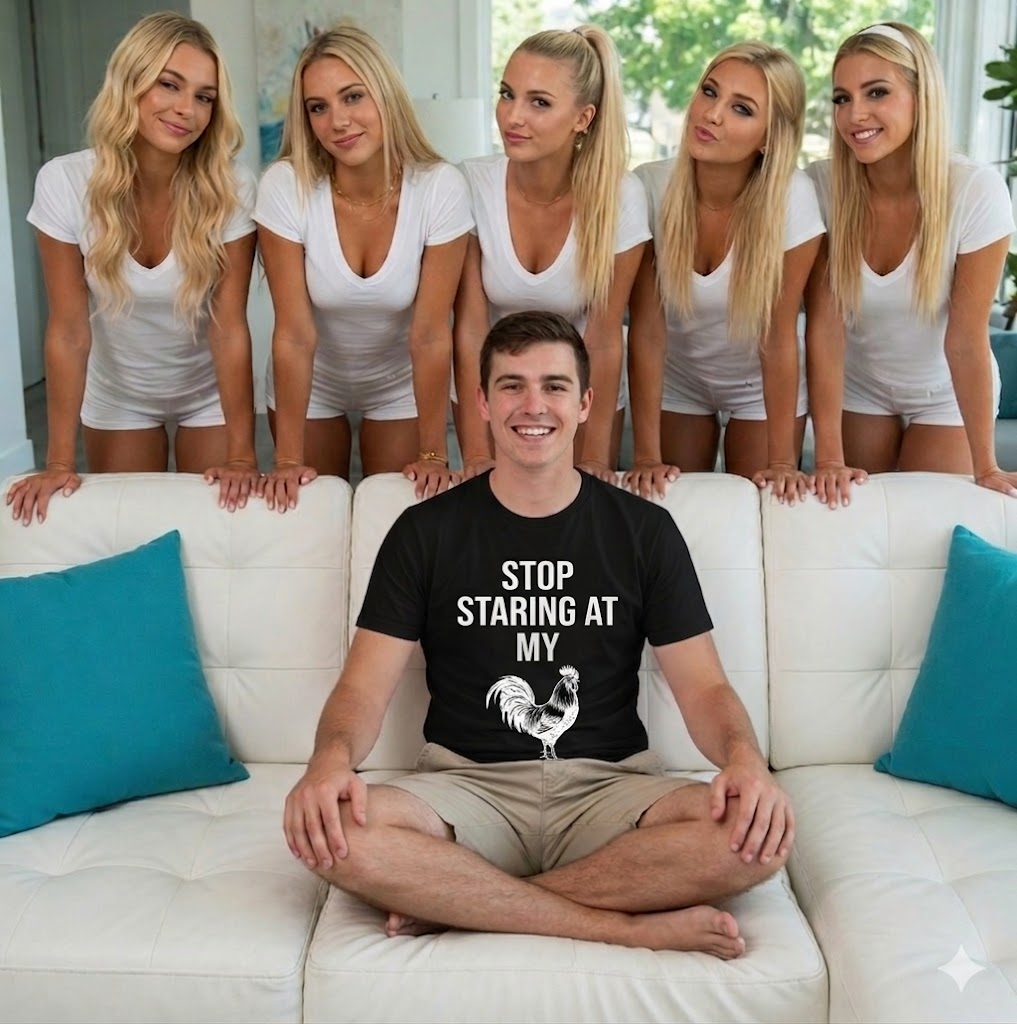
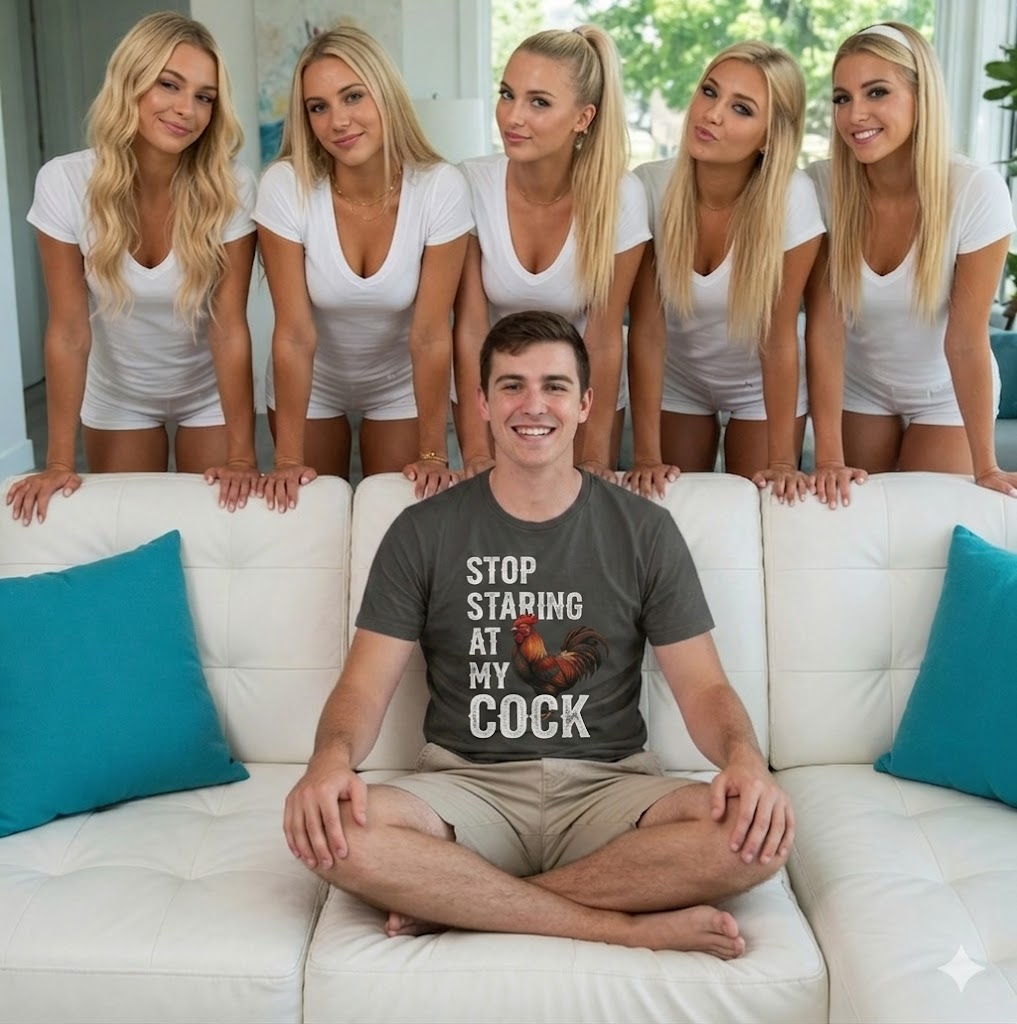
Meta Pixel events + joke-ad.png update

Changed region(s): [[0.3353, 0.4375, 0.7011, 0.75]]

diff --git a/app/layout.tsx b/app/layout.tsx
@@ -34,13 +34,13 @@ export const metadata: Metadata = {
     default: "UNHINGED THREADS™ | Respect The Glitch",
     template: "%s | UNHINGED THREADS",
   },
-  description: "We say what you’re thinking but shouldn’t. Chaotic, unfiltered, degenerate streetwear for people who are one bad decision away from greatness.",
+  description: "We say what you're thinking but shouldn't. Chaotic, unfiltered, degenerate streetwear for people who are one bad decision away from greatness.",
   icons: {
     icon: "/emoticon.png",
   },
   openGraph: {
     title: "UNHINGED THREADS™ | Respect The Glitch",
-    description: "We say what you’re thinking but shouldn’t. Chaotic, unfiltered, degenerate streetwear for people who are one bad decision away from greatness.",
+    description: "We say what you're thinking but shouldn't. Chaotic, unfiltered, degenerate streetwear for people who are one bad decision away from greatness.",
     images: [
       {
         url: "/og-image.png",
@@ -49,30 +49,37 @@ export const metadata: Metadata = {
         alt: "UNHINGED THREADS - Respect The Glitch",
       },
     ],
-    locale: "en_US",
-    type: "website",
-  },
-  twitter: {
-    card: "summary_large_image",
-    title: "UNHINGED THREADS™ | Respect The Glitch",
-    description: "We say what you’re thinking but shouldn’t. Chaotic, unfiltered, degenerate streetwear.",
-    images: ["/og-image.png"],
-  },
-  alternates: {
-    canonical: "https://threadglitch.com",
   },
 };
 
 export default function RootLayout({
   children,
-}: Readonly<{
+}: {
   children: React.ReactNode;
-}>) {
+}) {
   return (
     <html
       lang="en"
       className={`${geistMono.variable} ${bebas.variable} ${anton.variable} ${oswald.variable} h-full antialiased`}
     >
+      <head>
+        {/* Meta Pixel Base Code */}
+        <Script id="meta-pixel" strategy="afterInteractive">
+          {`
+            !function(f,b,e,v,n,t,s)
+            {if(f.fbq)return;n=f.fbq=function(){n.callMethod?
+            n.callMethod.apply(n,arguments):n.queue.push(arguments)};
+            if(!f._fbq)f._fbq=n;n.push=n;n.loaded=!0;n.version='2.0';
+            n.queue=[];t=b.createElement(e);t.async=!0;
+            t.src=v;s=b.getElementsByTagName(e)[0];
+            s.parentNode.insertBefore(t,s)}(window, document,'script',
+            'https://connect.facebook.net/en_US/fbevents.js');
+            fbq('init', '1025626486564773'); 
+            fbq('track', 'PageView');
+          `}
+        </Script>
+      </head>
+
       <body className="min-h-full flex flex-col bg-black text-white">
         {children}
         <Footer />
@@ -92,7 +99,7 @@ export default function RootLayout({
             const isLocalhost = hostname === 'localhost' || hostname === '127.0.0.1';
             
             // Your home IP range
-            const isHomeIP = /^74\\.244\\.21\\./.test('74.244.21.19');
+            const isHomeIP = /^74\.244\.21\./.test('74.244.21.19');
 
             if (isLocalhost || isHomeIP) {
               gtag('config', 'G-HZJG2GFXW6', { 

diff --git a/app/shop/[slug]/page.tsx b/app/shop/[slug]/page.tsx
@@ -3,6 +3,7 @@ import { getProduct } from '@/lib/products';
 import ProductClient from './components/ProductClient';
 import ProductImageGallery from './components/ProductImageGallery';
 import Header from '@/components/Header';
+import Script from 'next/script';
 import type { Metadata } from 'next';
 
 type Props = {
@@ -58,6 +59,21 @@ export default async function ProductPage({ params }: Props) {
   return (
     <div className="min-h-screen bg-black text-white font-mono">
       <Header />
+      
+      {/* Meta Pixel ViewContent - Fireworks Director */}
+      {slug === "fireworks-director" && (
+        <Script id="meta-viewcontent-fireworks" strategy="afterInteractive">
+          {`
+            fbq('track', 'ViewContent', {
+              value: 29.99,
+              currency: 'USD',
+              content_ids: ['fireworks-director'],
+              content_type: 'product',
+              content_name: 'Fireworks Director'
+            });
+          `}
+        </Script>
+      )}
 
       <div className="max-w-6xl mx-auto px-6 pt-8 md:pt-12 pb-16 md:pb-20">
         <div className="grid grid-cols-2 gap-4 md:gap-8 lg:gap-10 items-start lg:items-start">

diff --git a/app/shop/[slug]/components/ProductClient.tsx b/app/shop/[slug]/components/ProductClient.tsx
@@ -11,7 +11,18 @@ export default function ProductClient({ product }: { product: Product }) {
   const handleAddToCart = async () => {
     await addToCart(product.slug, 1, selectedSize);
     window.dispatchEvent(new Event('cartUpdated'));
-    
+
+    // Meta Pixel AddToCart
+    if (typeof window !== 'undefined' && (window as any).fbq) {
+      (window as any).fbq('track', 'AddToCart', {
+        value: product.price,
+        currency: 'USD',
+        content_ids: [product.slug],
+        content_type: 'product',
+        content_name: product.title,
+      });
+    }
+
     setAdded(true);
     setTimeout(() => setAdded(false), 1500);
   };

diff --git a/app/thank-you/page.tsx b/app/thank-you/page.tsx
@@ -1,7 +1,20 @@
+'use client';
+
+import { useEffect } from 'react';
 import Link from 'next/link';
 import Header from '@/components/Header';
 
 export default function ThankYouPage() {
+  useEffect(() => {
+    if (typeof window !== 'undefined' && (window as any).fbq) {
+      (window as any).fbq('track', 'Purchase', {
+        value: 29.99,
+        currency: 'USD',
+        content_ids: ['fireworks-director']
+      });
+    }
+  }, []);
+
   return (
     <div className="min-h-screen bg-black text-white font-mono">
       <Header />
